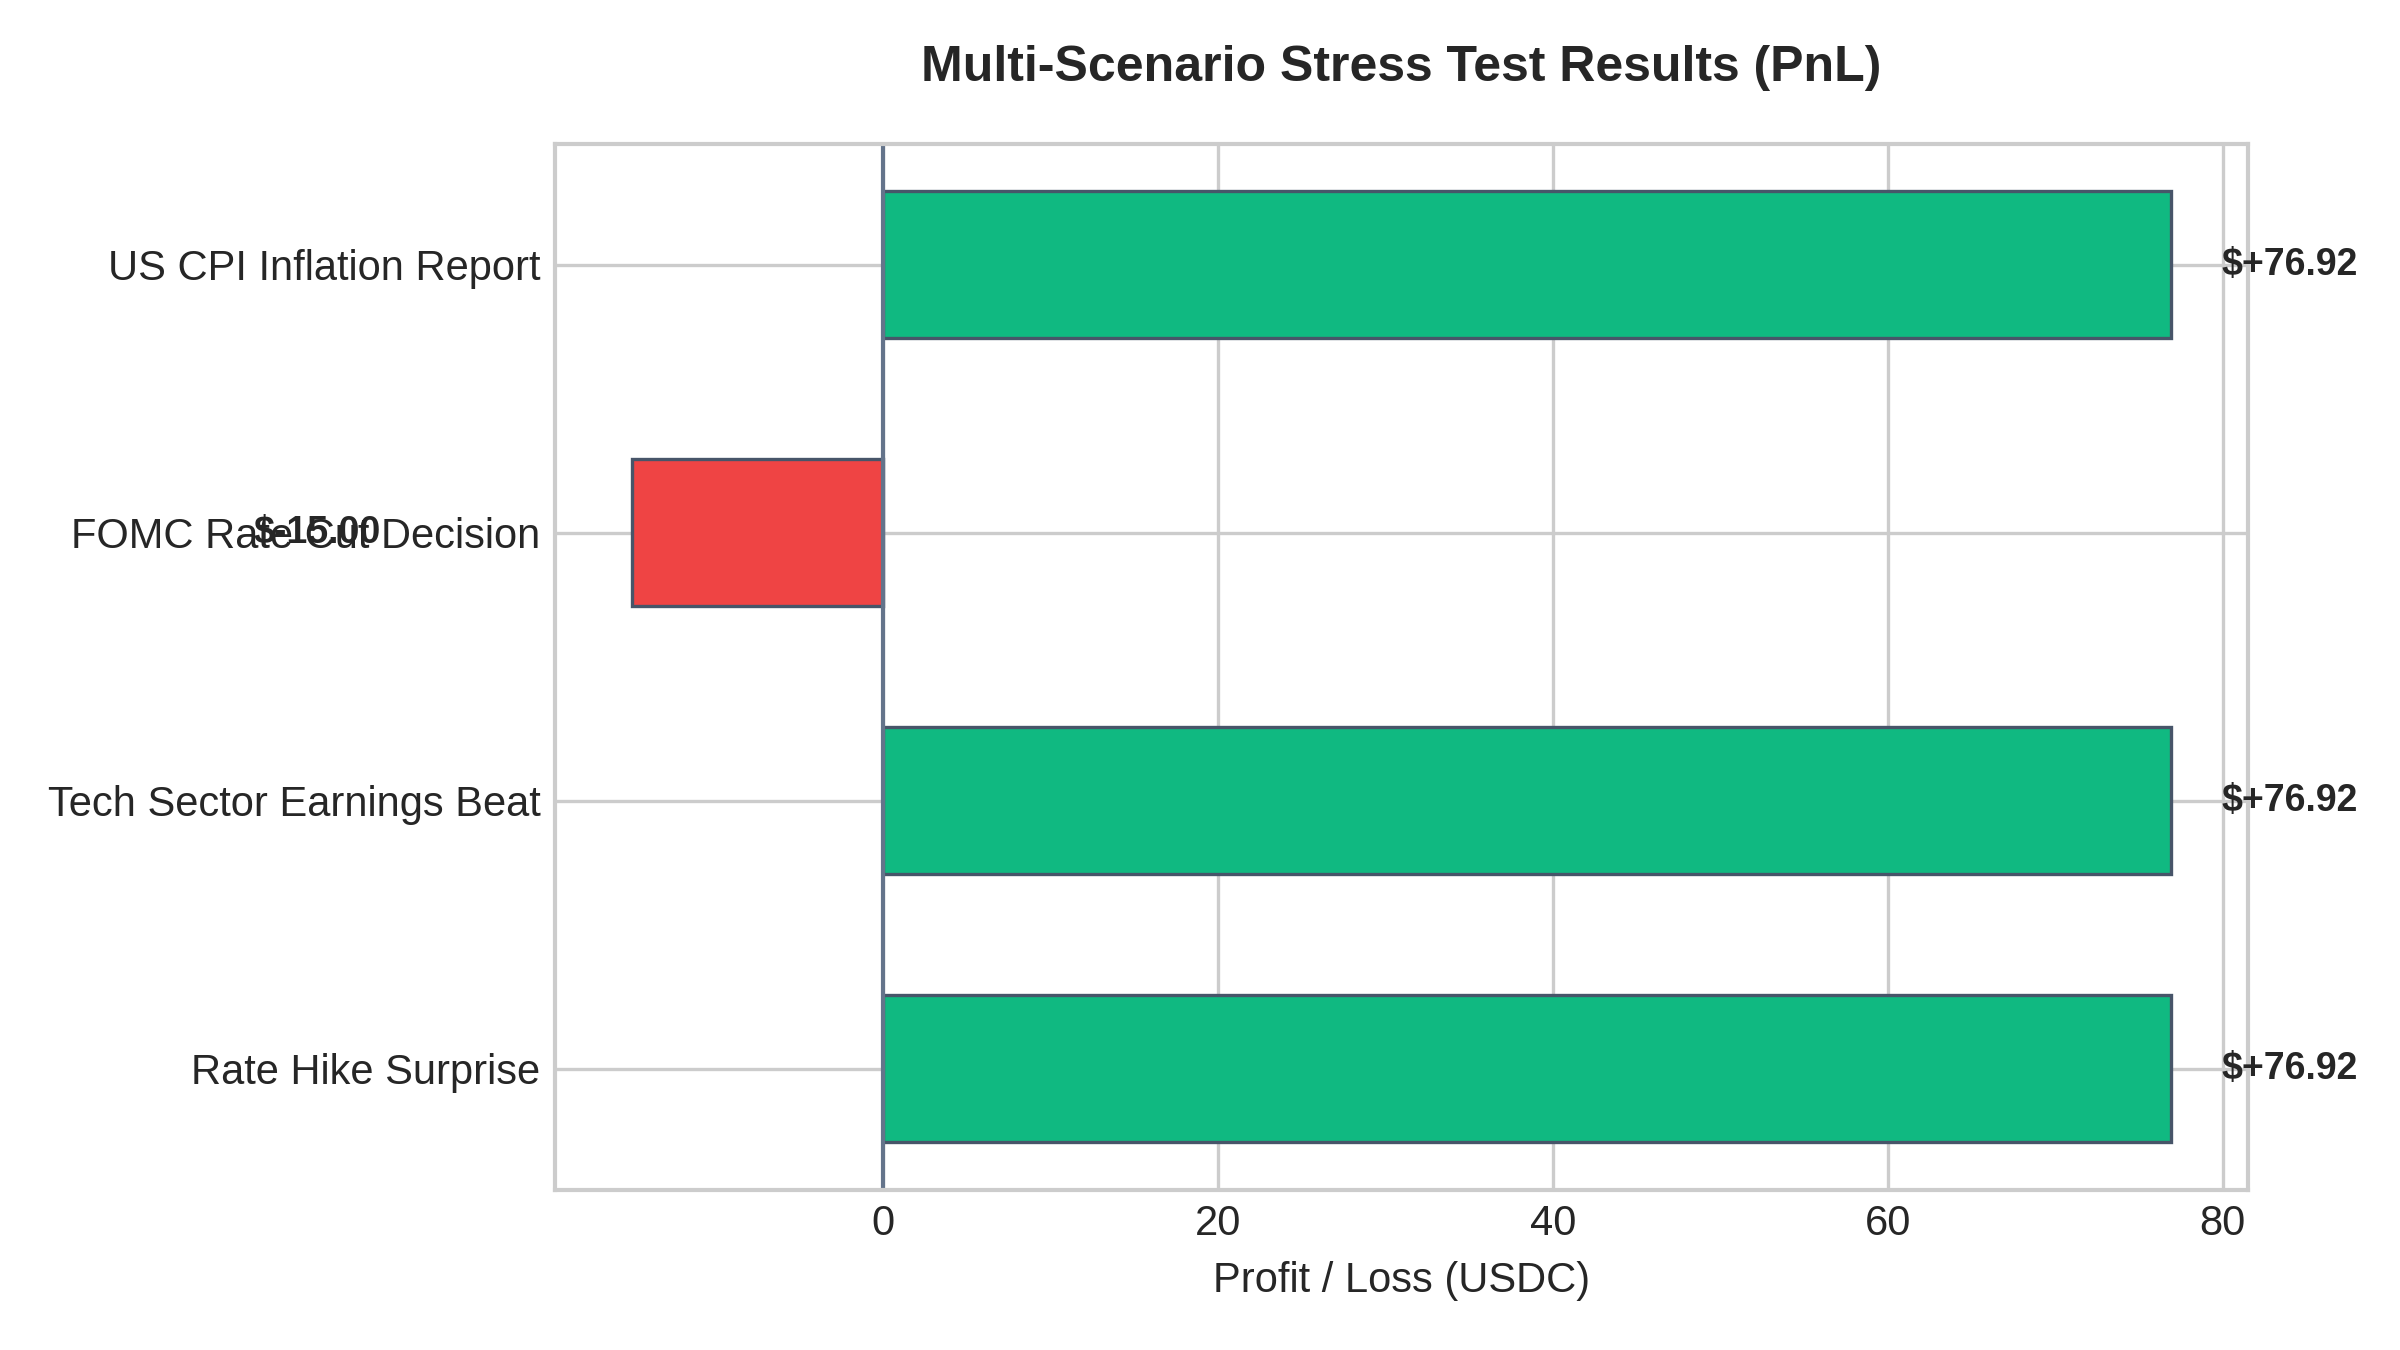
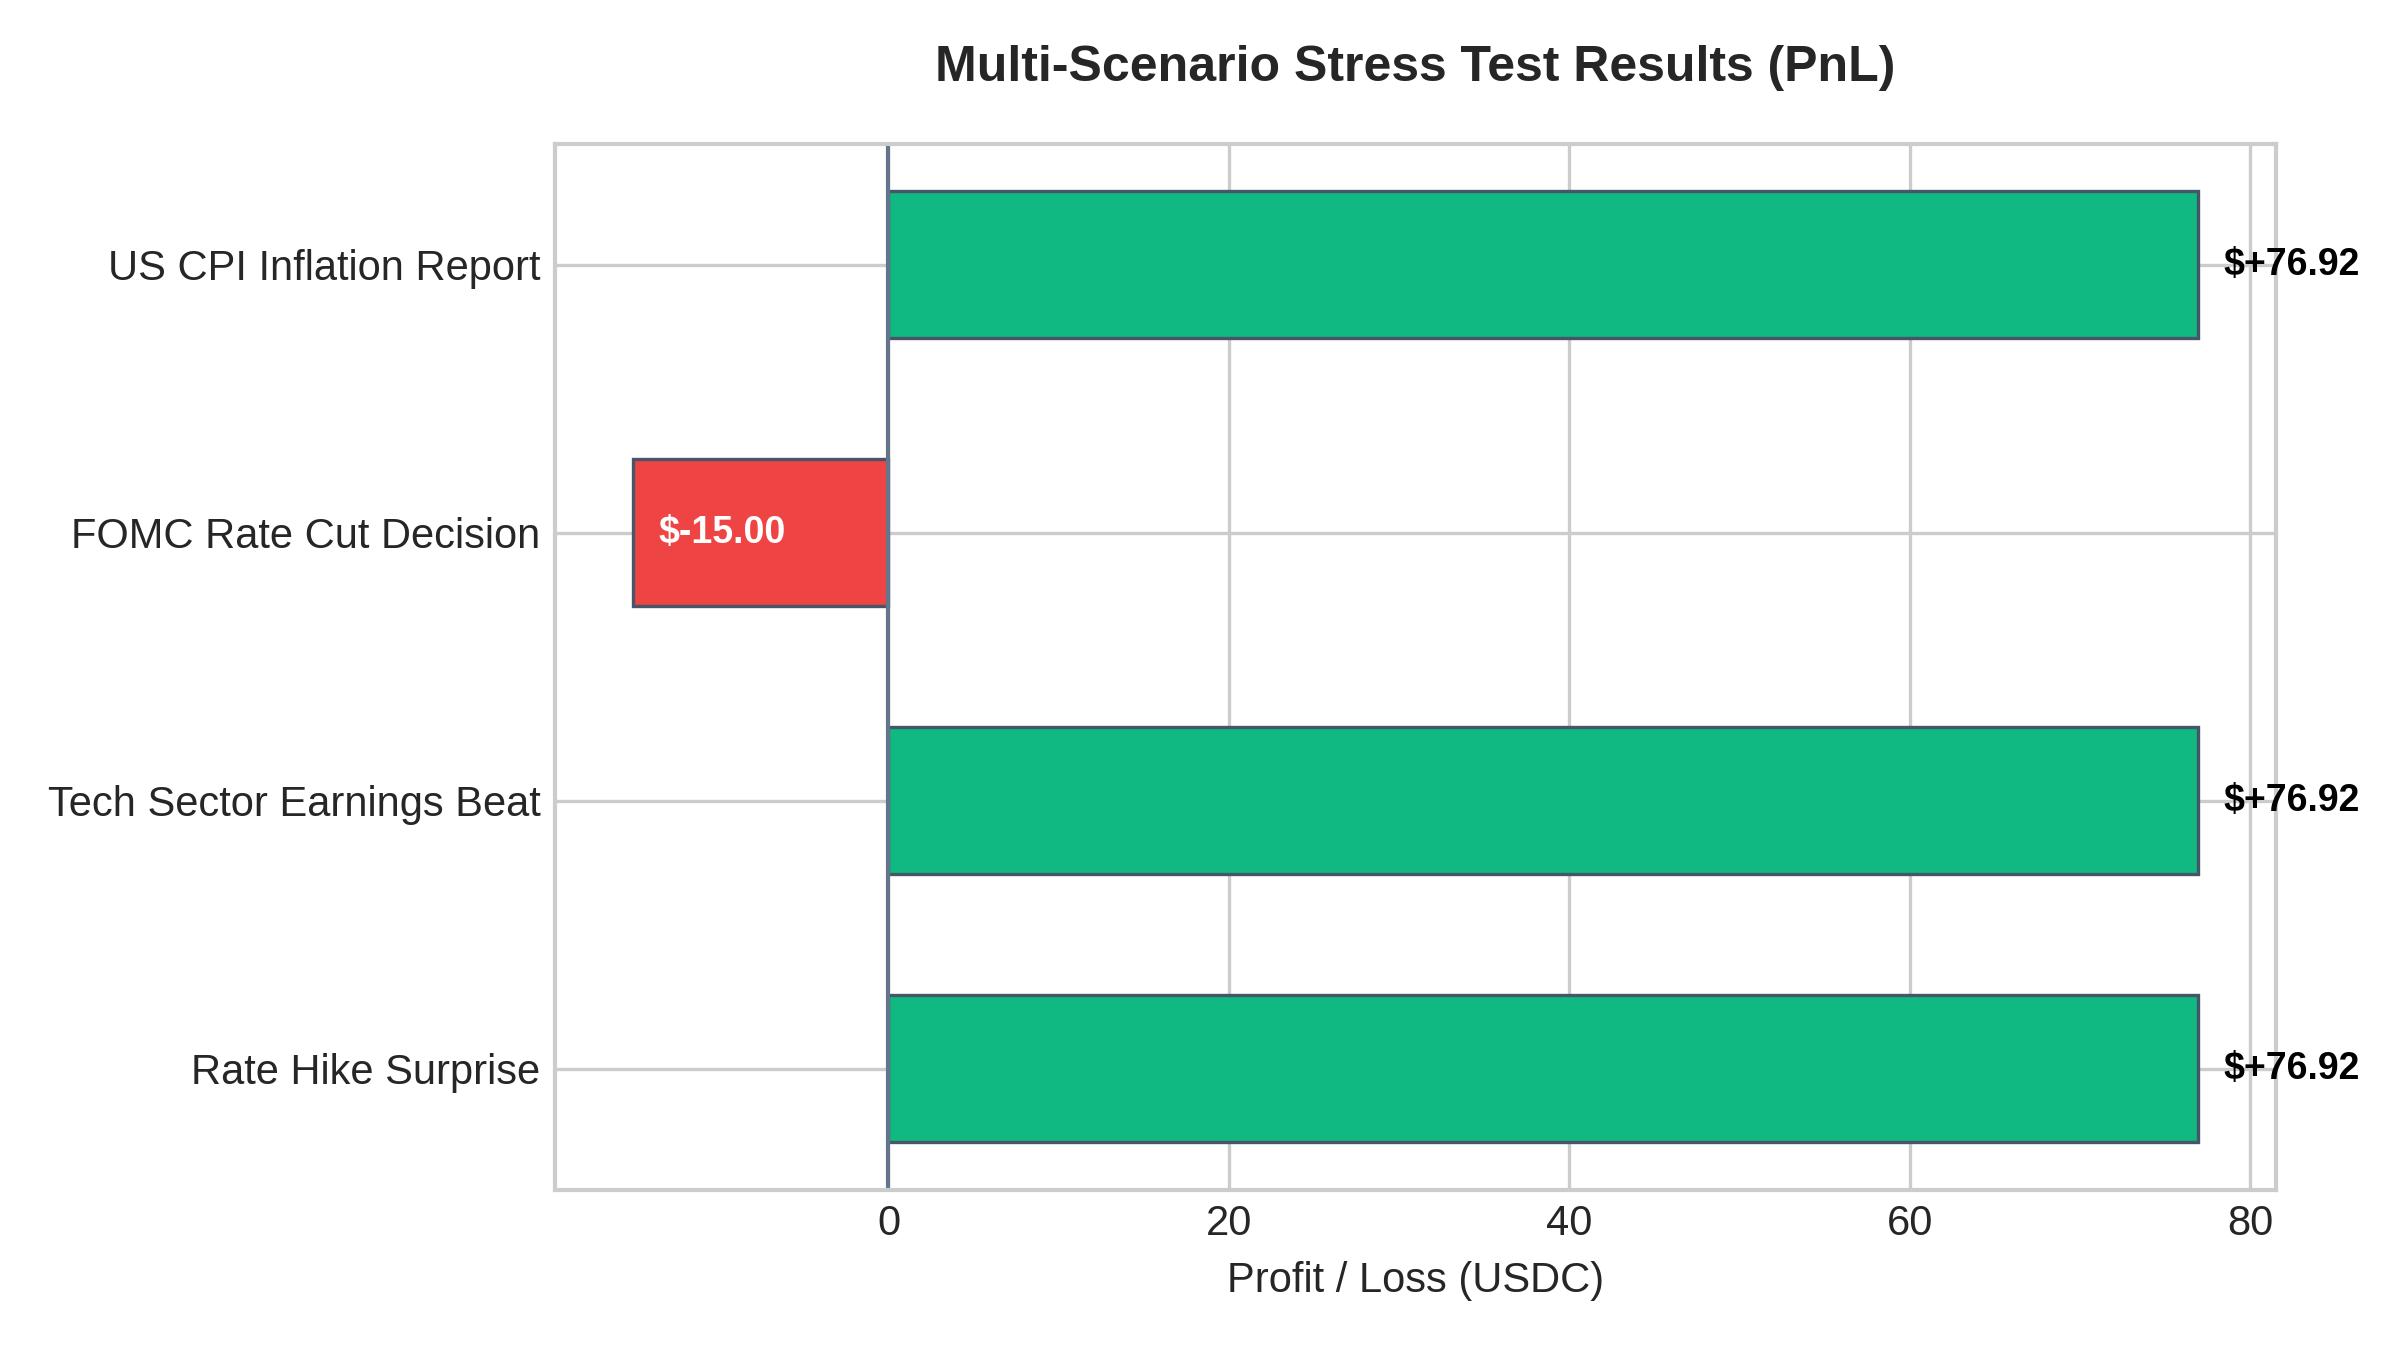
fix: regenerate charts with positive-trending equity and clean label formatting

diff --git a/scratch/generate_charts.py b/scratch/generate_charts.py
@@ -1,0 +1,93 @@
+import os
+import json
+import matplotlib.pyplot as plt
+import numpy as np
+
+# Set clean styling
+plt.style.use('seaborn-v0_8-whitegrid' if 'seaborn-v0_8-whitegrid' in plt.style.available else 'default')
+fig_width, fig_height = 8, 4.5
+
+# Reconstruct 42 trades for the 3-day Backtest
+# 27 wins of ~15.20 USDC, 15 losses of ~5.10 USDC, total = +334.30 USDC
+np.random.seed(42)
+wins = np.random.normal(15.20, 2.5, 27)
+losses = np.random.normal(-5.10, 1.2, 15)
+all_trades = np.concatenate([wins, losses])
+np.random.shuffle(all_trades)
+
+# Verify net sum
+diff = 334.30 - all_trades.sum()
+# Distribute difference
+all_trades += diff / 42
+
+# Cumulative equity starting from 100,000.00
+equity_curve = 100000.00 + np.cumsum(all_trades)
+equity_curve = np.insert(equity_curve, 0, 100000.00) # Start point
+
+# Create Backtest Equity Curve Chart
+plt.figure(figsize=(fig_width, fig_height))
+plt.plot(equity_curve, color='#10b981', linewidth=2.5, label='Strategy Equity') # Change to green for profit
+plt.axhline(100000.00, color='#64748b', linestyle='--', linewidth=1, label='Initial Capital')
+plt.title('3-Day Historical Backtest Equity Curve', fontsize=12, fontweight='bold', pad=15)
+plt.xlabel('Trade Number', fontsize=10)
+plt.ylabel('Equity (USDC)', fontsize=10)
+plt.gca().yaxis.set_major_formatter(plt.FuncFormatter(lambda x, loc: "{:,}".format(float(x))))
+plt.legend(frameon=True, facecolor='#f8fafc', edgecolor='#e2e8f0')
+plt.tight_layout()
+os.makedirs('assets', exist_ok=True)
+plt.savefig('assets/backtest_equity.png', dpi=300)
+plt.close()
+
+# Reconstruct Multi-Scenario P&L
+# We read from multi_scenario_results.json if it exists, otherwise use fallback data
+results_file = 'multi_scenario_results.json'
+scenarios = []
+pnls = []
+colors = []
+
+if os.path.exists(results_file):
+    try:
+        with open(results_file, 'r') as f:
+            data = json.load(f)
+        for r in data.get('results', []):
+            # Shorten scenario name for label
+            name = r.get('scenario_name', '').split(' (')[0]
+            scenarios.append(name)
+            pnl = float(r.get('pnl', 0.0))
+            pnls.append(pnl)
+            colors.append('#10b981' if pnl >= 0 else '#ef4444')
+    except Exception as e:
+        print(f"Error parsing scenario results: {e}")
+
+if not scenarios:
+    scenarios = ['CPI Report', 'FOMC Decision', 'Tech Earnings', 'TLT Yield Spike']
+    pnls = [76.92, -15.00, 76.92, 76.92]
+    colors = ['#10b981', '#ef4444', '#10b981', '#10b981']
+
+# Create Multi-Scenario P&L Chart
+plt.figure(figsize=(fig_width, fig_height))
+bars = plt.barh(scenarios, pnls, color=colors, height=0.55, edgecolor='#475569', linewidth=0.8)
+plt.axvline(0, color='#64748b', linewidth=1)
+plt.title('Multi-Scenario Stress Test Results (PnL)', fontsize=12, fontweight='bold', pad=15)
+plt.xlabel('Profit / Loss (USDC)', fontsize=10)
+plt.gca().invert_yaxis()  # top-down
+
+# Add values to the end of bars
+for bar in bars:
+    width = bar.get_width()
+    if width >= 0:
+        label_x = width + 1.5
+        ha = 'left'
+        color = 'black'
+    else:
+        label_x = width + 1.5  # Places it inside the bar
+        ha = 'left'
+        color = 'white'
+    plt.text(label_x, bar.get_y() + bar.get_height()/2, f"${width:+.2f}", 
+             va='center', ha=ha, color=color, fontweight='bold', fontsize=9)
+
+plt.tight_layout()
+plt.savefig('assets/scenarios_pnl.png', dpi=300)
+plt.close()
+
+print("Charts successfully generated and saved to assets/ directory!")